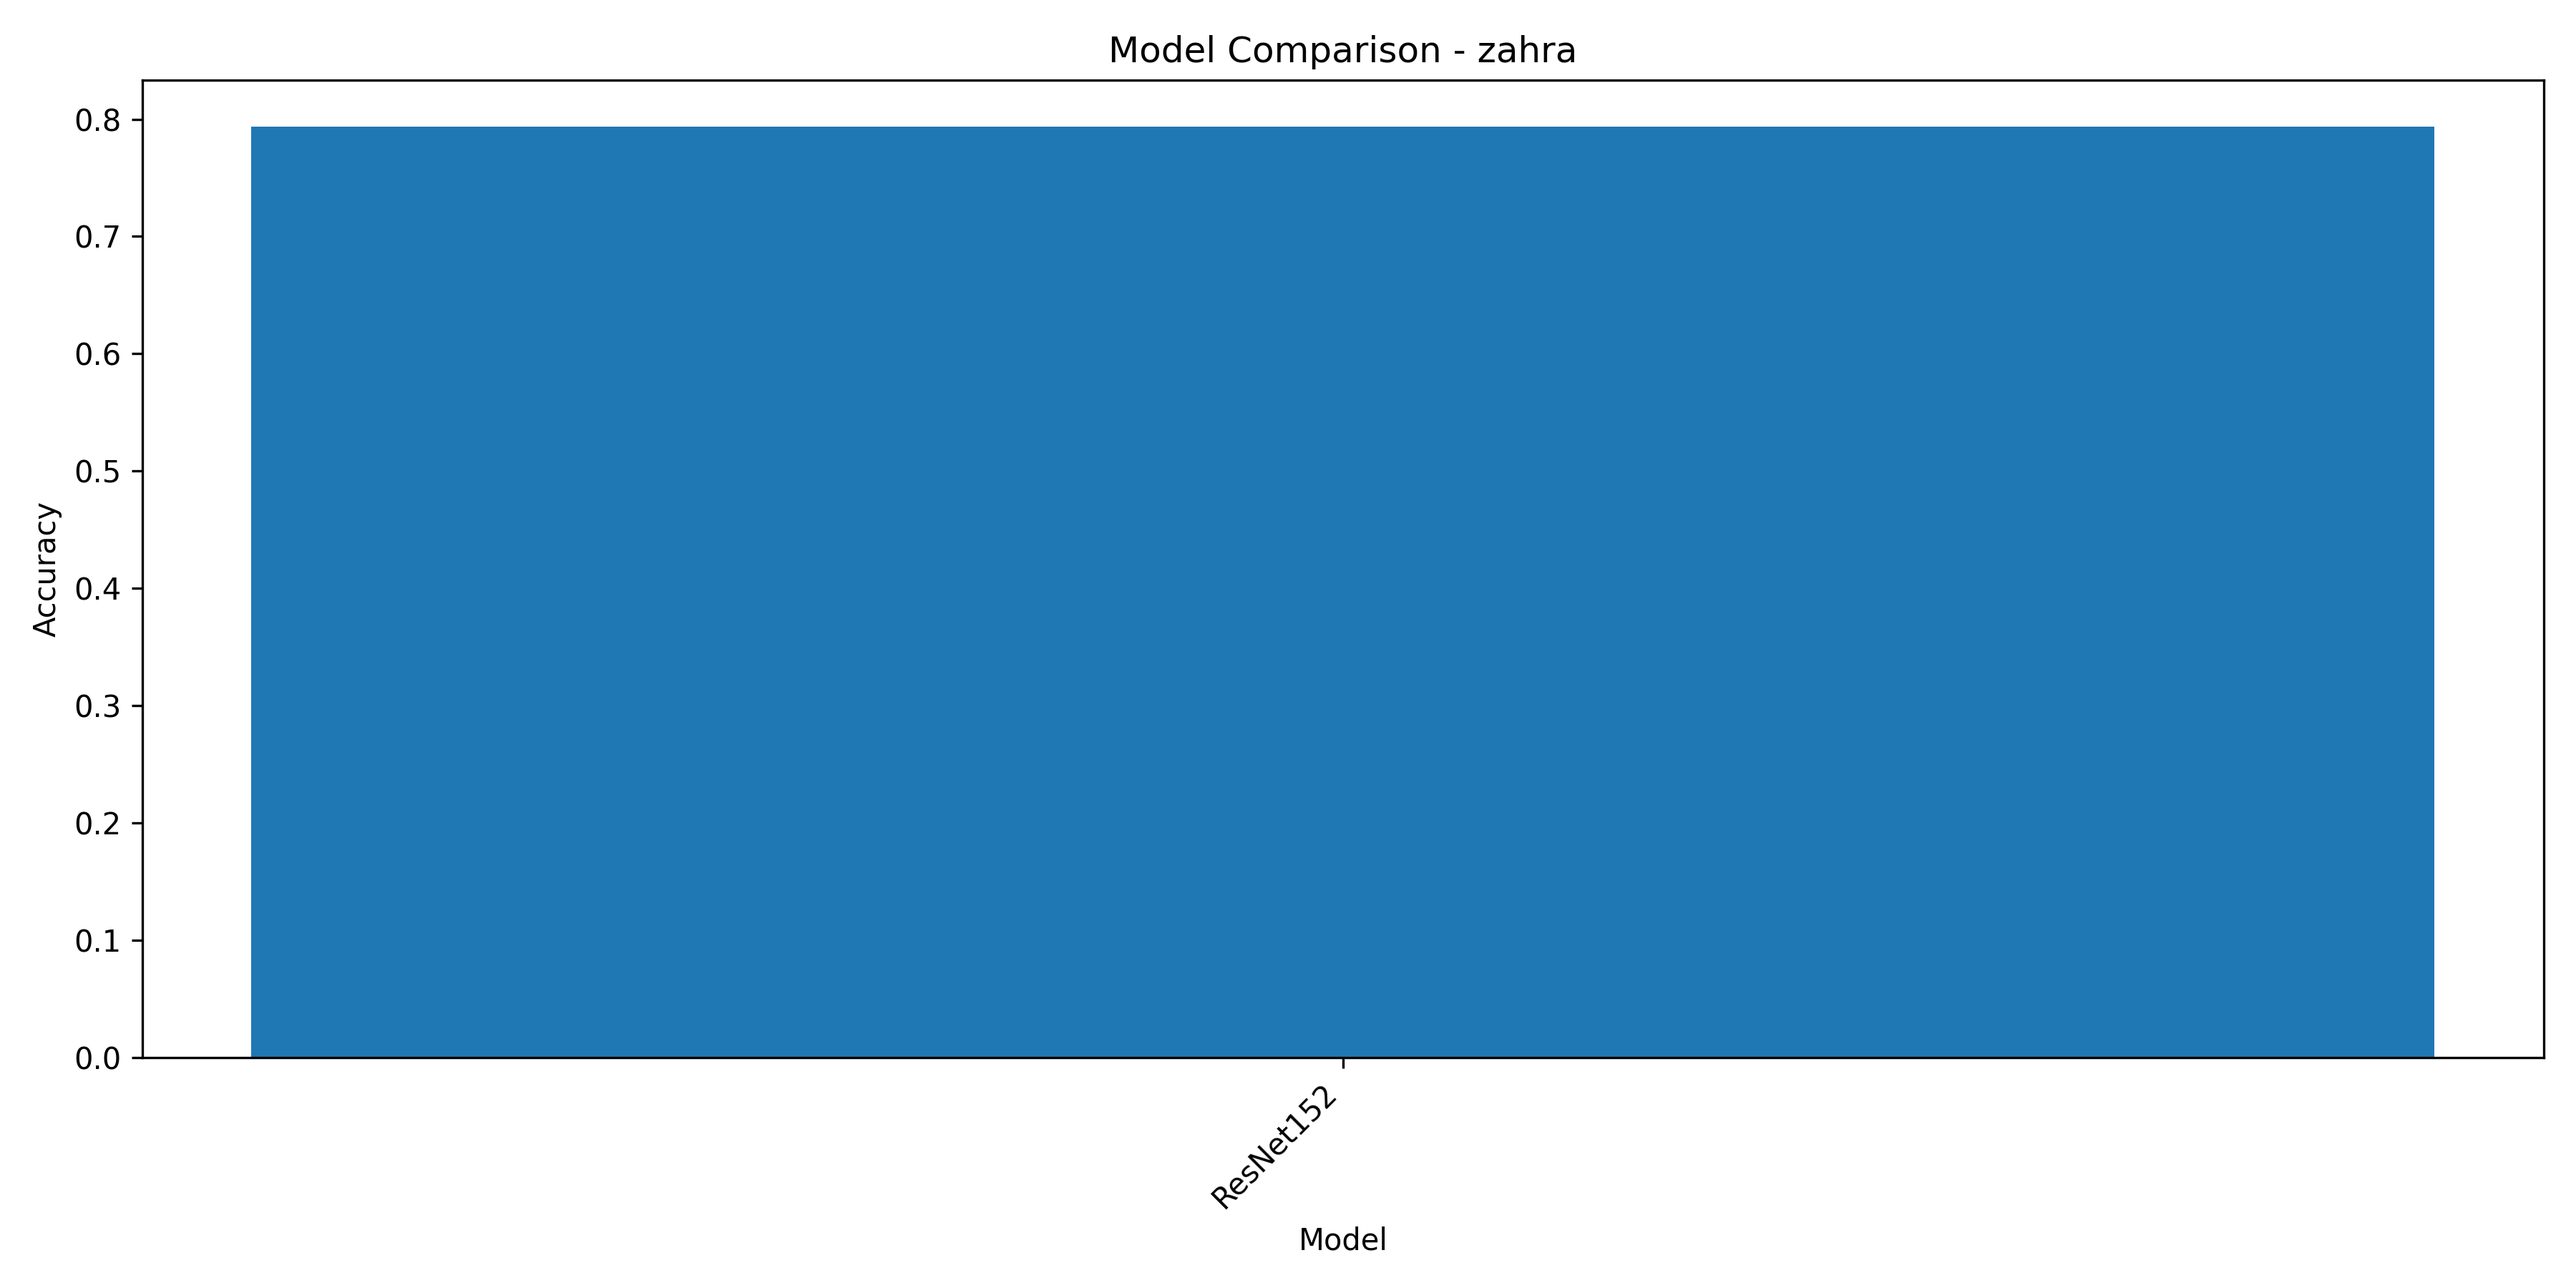
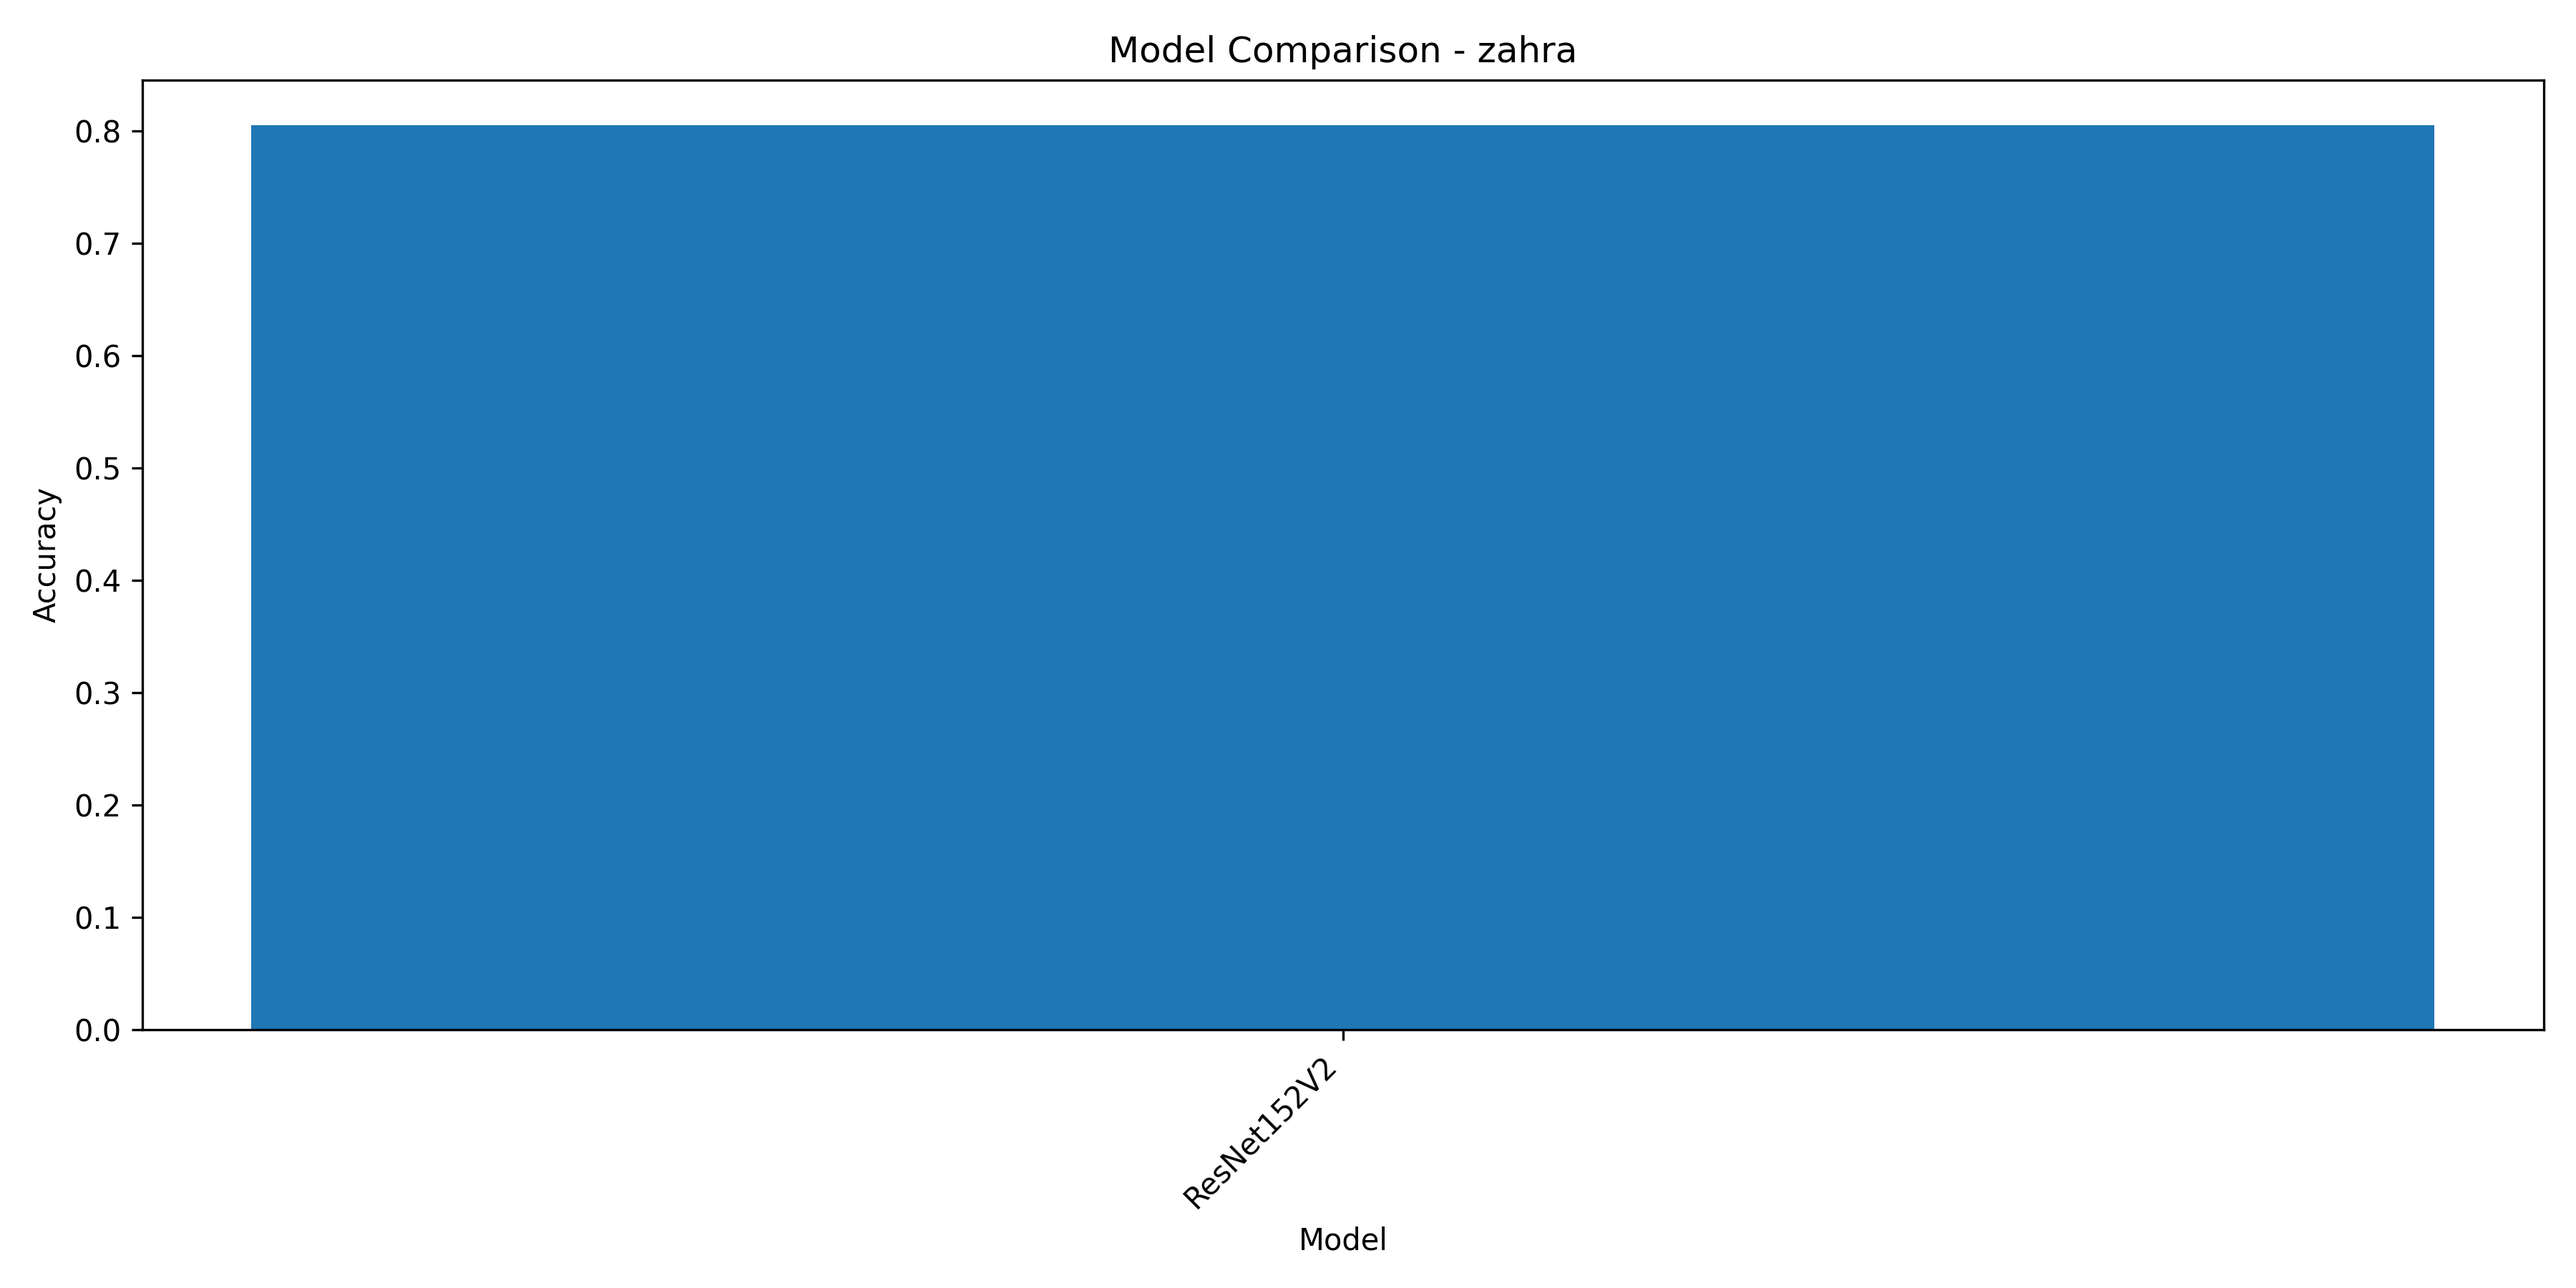
ResNet152V2

diff --git a/src/model_factory.py b/src/model_factory.py
@@ -30,7 +30,7 @@ SIREEN_MODELS = [
     'ConvNeXtTiny', 'ConvNeXtSmall'
 ]
 
-TALA_MODELS = [R
+TALA_MODELS = [
     'ResNet101', 'ResNet101V2', 'InceptionV3', 'InceptionResNetV2',
     'NASNetMobile', 'NASNetLarge', 'EfficientNetB6', 'EfficientNetB7',
     'EfficientNetV2B1', 'EfficientNetV2B2', 'EfficientNetV2B3',
